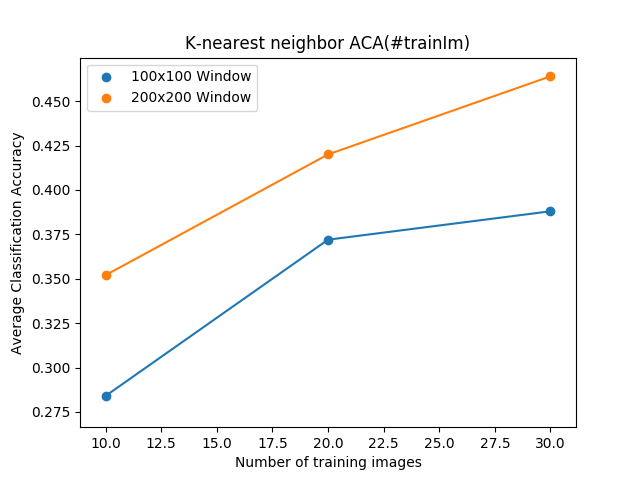
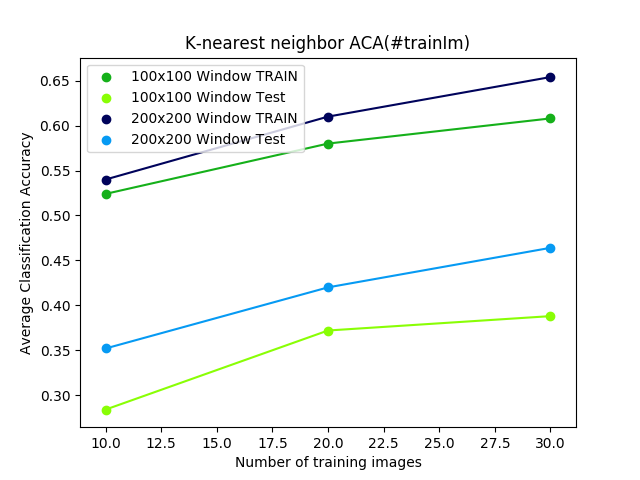
Grafica KNN y random Forest ACA Train-test

diff --git a/Graf.py b/Graf.py
@@ -2,18 +2,26 @@ import matplotlib.pyplot  as plt
 
 x100KNN=[10,20,30]
 y100KNN=[0.284,0.372,0.388]
-
+y100KNNTrain=[0.524,0.580,0.608]
 x200KNN=[10,20,30]
 y200KNN=[0.352,0.42,0.464]
+y200KNNTrain=[0.540,0.610,0.654]
 
 fig=plt.figure()
 
 ax1=fig.add_subplot(111)
 
-ax1.scatter(x100KNN,y100KNN,label='100x100 Window')
-ax1.plot(x100KNN,y100KNN)
-ax1.scatter(x200KNN,y200KNN,label='200x200 Window')
-ax1.plot(x200KNN,y200KNN)
+
+ax1.scatter(x100KNN,y100KNNTrain,label='100x100 Window TRAIN', color='xkcd:green')
+ax1.plot(x100KNN,y100KNNTrain, color='xkcd:green')
+ax1.scatter(x100KNN,y100KNN,label='100x100 Window Test', color='xkcd:lime green')
+ax1.plot(x100KNN,y100KNN, color='xkcd:lime green')
+
+ax1.scatter(x200KNN,y200KNNTrain,label='200x200 Window TRAIN',color='xkcd:dark blue')
+ax1.plot(x200KNN,y200KNNTrain,color='xkcd:dark blue')
+ax1.scatter(x200KNN,y200KNN,label='200x200 Window Test',color='xkcd:azure')
+ax1.plot(x200KNN,y200KNN,color='xkcd:azure')
+
 
 plt.title('K-nearest neighbor ACA(#trainIm)')
 plt.xlabel('Number of training images')

diff --git a/Graf2.py b/Graf2.py
@@ -1,0 +1,32 @@
+import matplotlib.pyplot  as plt
+
+x100RF=[10,20,30]
+y100RF=[0.316,0.340,0.404]
+y100RFTrain=[0.992,0.996,0.995]
+
+x200RF=[10,20,30]
+y200RF=[0.388,0.464,0.508]
+y200RFTrain=[0.996,0.996,0.996]
+
+fig=plt.figure()
+
+ax1=fig.add_subplot(111)
+
+ax1.scatter(x100RF,y100RFTrain,label='100x100 Window TRAIN',color='xkcd:magenta')
+ax1.plot(x100RF,y100RFTrain,color='xkcd:magenta')
+ax1.scatter(x100RF,y100RF,label='100x100 Window Test',color='xkcd:pink')
+ax1.plot(x100RF,y100RF,color='xkcd:pink')
+
+ax1.scatter(x200RF,y200RFTrain,label='100x100 Window TRAIN',color='xkcd:teal')
+ax1.plot(x200RF,y200RFTrain,color='xkcd:teal')
+ax1.scatter(x200RF,y200RF,label='200x200 Window Test',color='xkcd:cyan')
+ax1.plot(x200RF,y200RF,color='xkcd:cyan')
+
+plt.title('Random Forest ACA(#trainIm)')
+plt.xlabel('Number of training images')
+plt.ylabel('Average Classification Accuracy')
+
+plt.legend(loc='upper left')
+plt.savefig('ACA-RF')
+plt.show()
+
